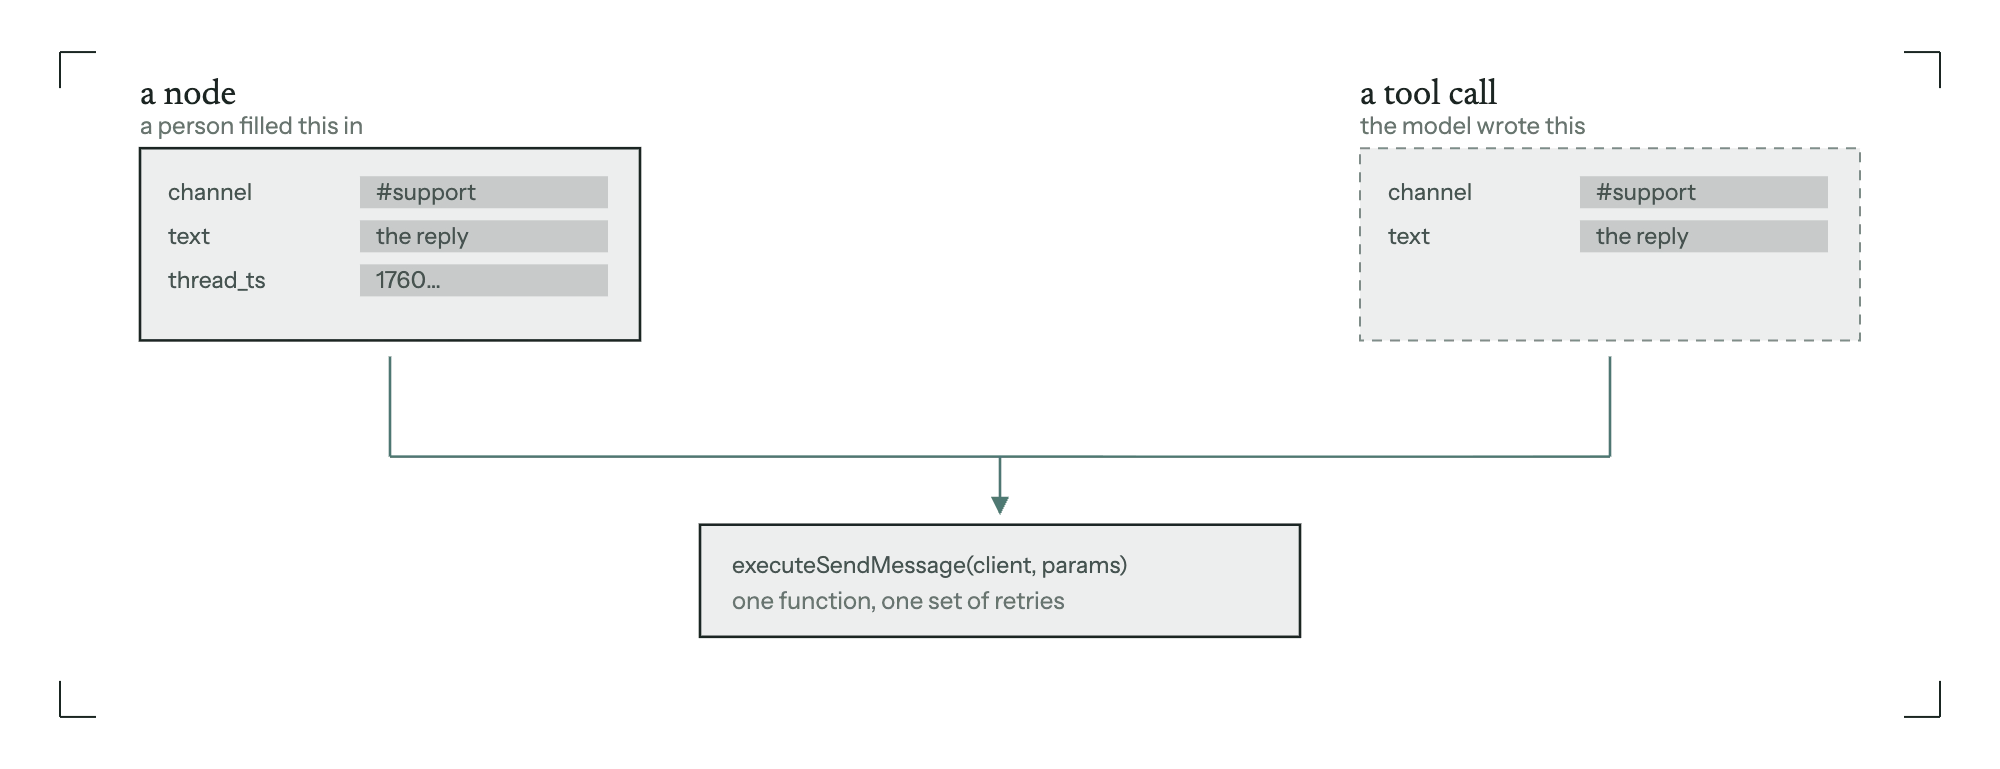
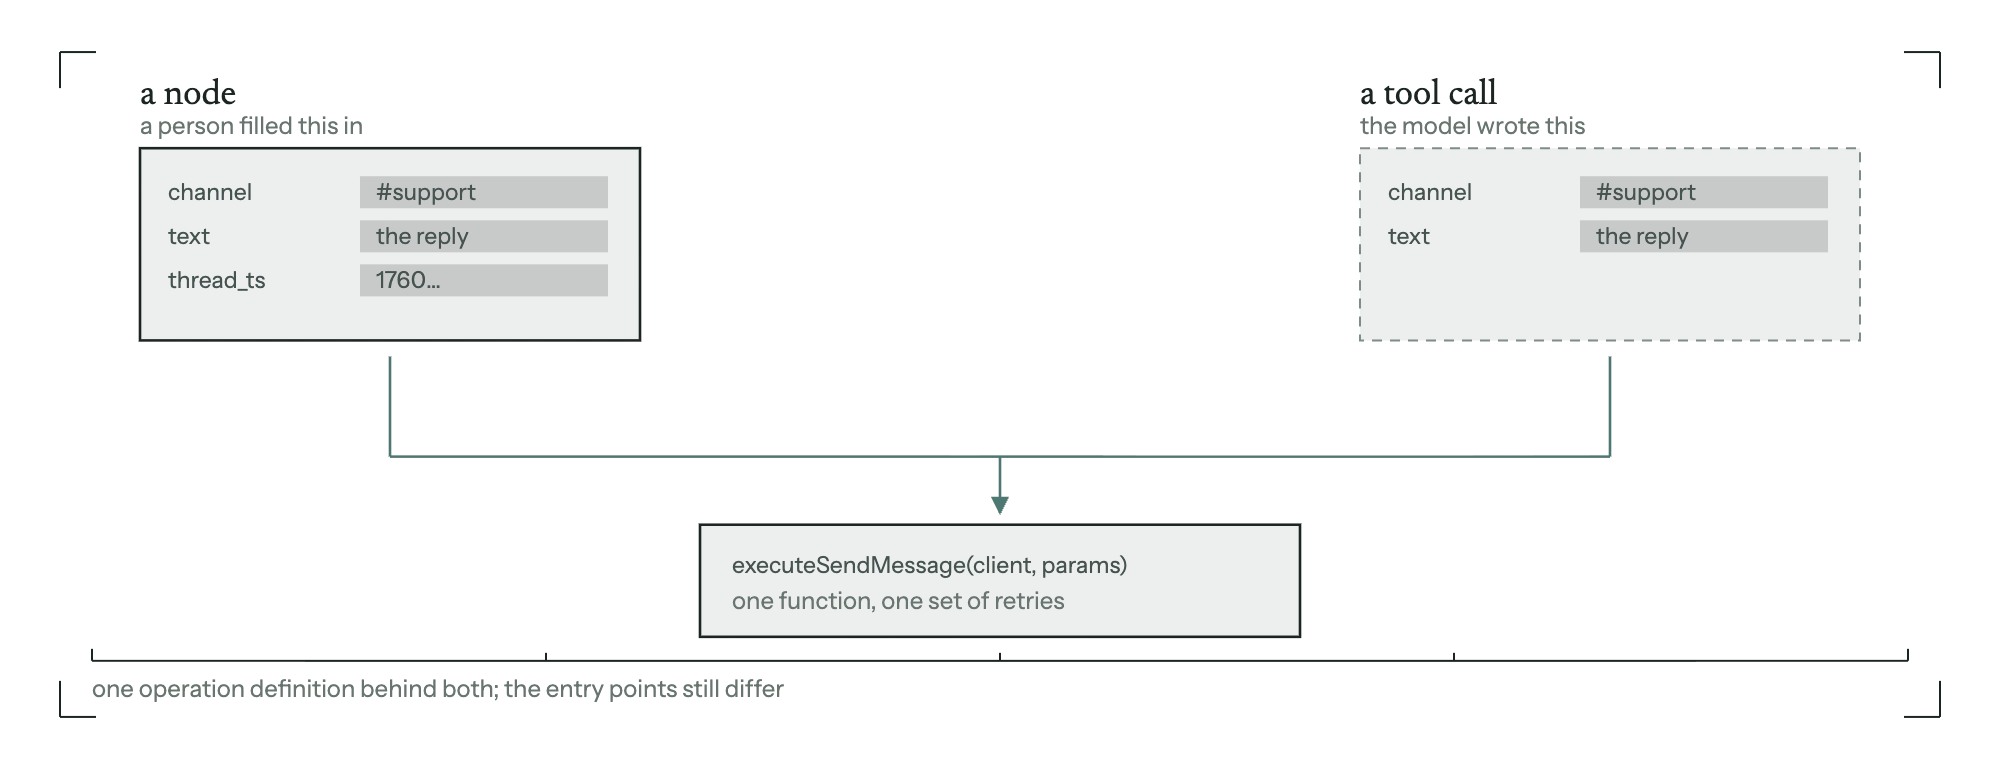
Close the two-callers cover on the rule the other technical plates use

Changed region(s): [[0.031, 0.8427, 0.961, 0.9051]]

diff --git a/scripts/covers/one-integration-two-callers.html b/scripts/covers/one-integration-two-callers.html
@@ -208,6 +208,21 @@
             }
             arrow(`M${op.x + op.w / 2} ${mid} V${op.y - 6}`);
 
+            // Every other technical plate closes on a measured rule with the qualification the
+            // post itself makes. This one stopped at the drawing, so it reads as a flat claim
+            // that one function is the whole story, which the post is careful to say it is not.
+            const ruleY = op.y + op.h + 12;
+            line(46, ruleY, 954, ruleY, "ink thin");
+            for (let i = 0; i <= 4; i += 1) {
+                const x = 46 + ((954 - 46) / 4) * i;
+                line(x, ruleY - (i % 4 === 0 ? 6 : 4), x, ruleY, "ink thin");
+            }
+            el(
+                "text",
+                { x: 46, y: ruleY + 18 },
+                "one operation definition behind both; the entry points still differ"
+            );
+
             // registration ticks
             const R = 18;
             const B2 = VB[1] - 26;
